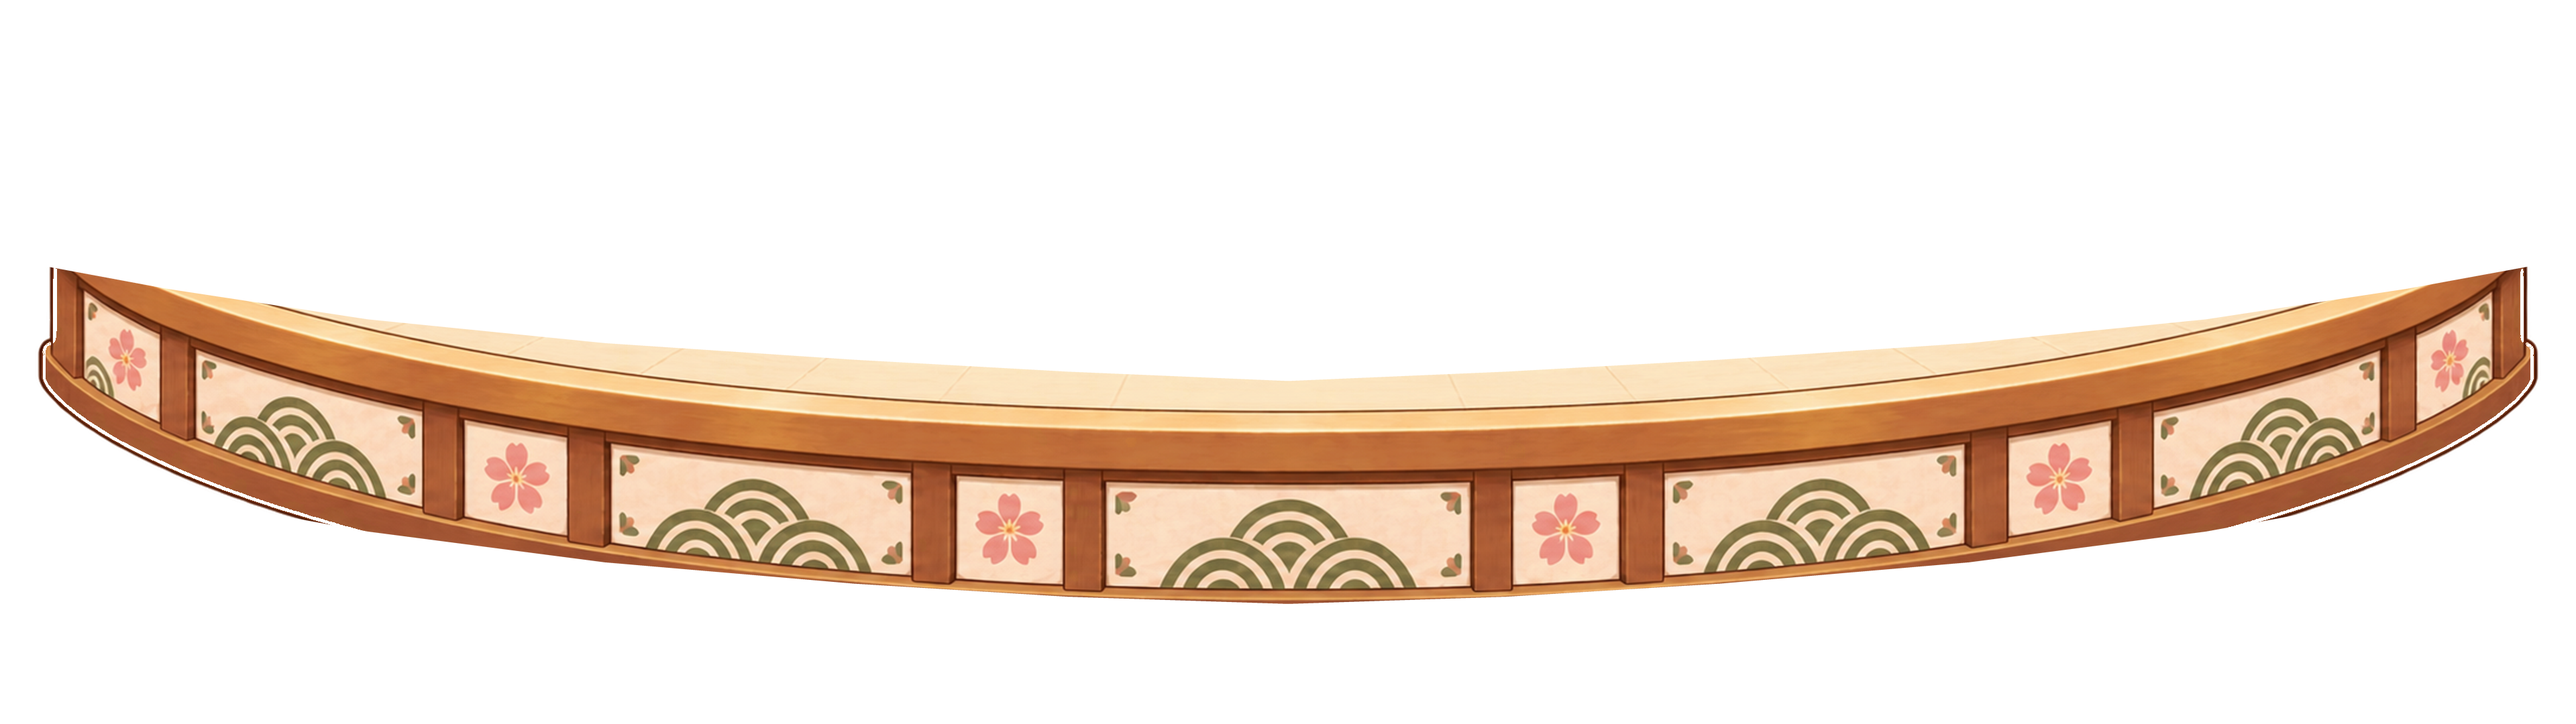
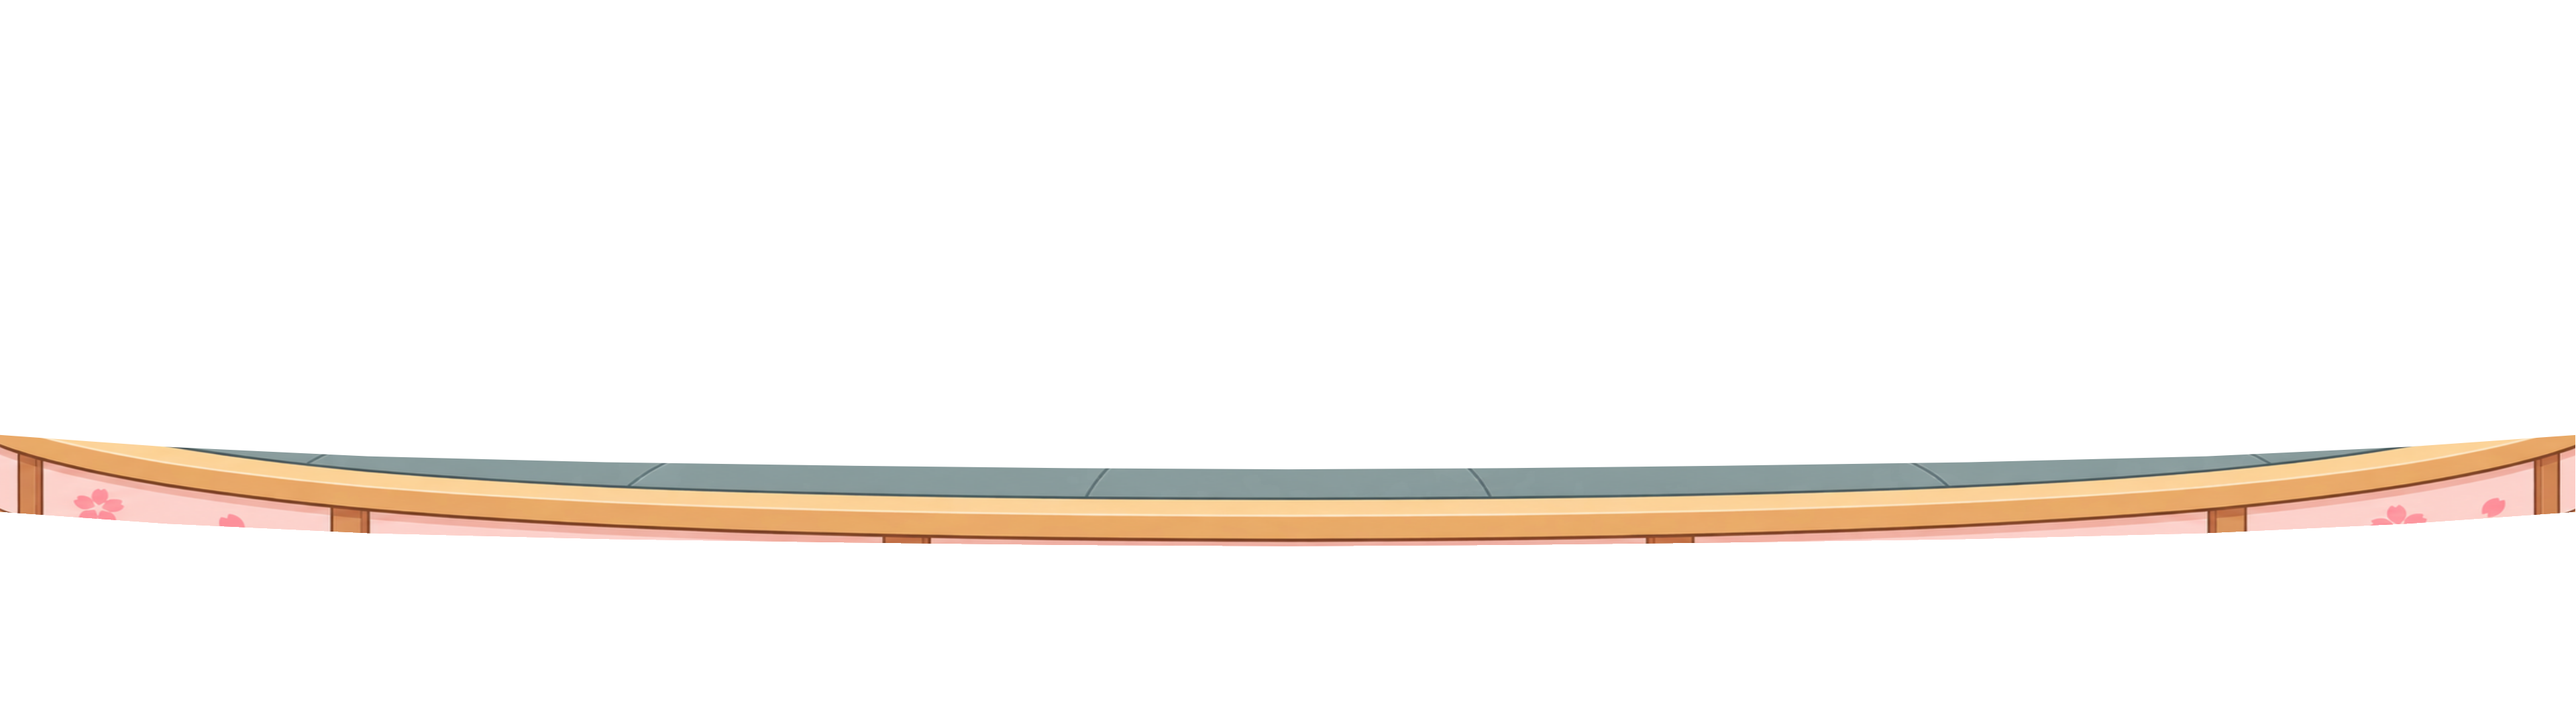
fix(themev3): redo background and conveyor stage composition

Changed region(s): [[0.0, 0.3667, 1.0, 0.8556]]

diff --git a/public/themev3-preview/index.html b/public/themev3-preview/index.html
@@ -3,16 +3,16 @@
   <head>
     <meta charset="UTF-8" />
     <meta name="viewport" content="width=device-width, initial-scale=1.0" />
-    <meta name="description" content="Theme V3 正式场景资产与弧形传送动线预览" />
-    <title>Theme V3 · 正式场景资产预览</title>
+    <meta name="description" content="Theme V3 Phase 03R 母背景、低矮弧形餐台与运动轨迹预览" />
+    <title>Theme V3 · Phase 03R 空间关系复核</title>
     <link rel="stylesheet" href="./preview.css" />
   </head>
   <body>
     <header class="prototype-header">
       <div class="heading">
-          <p class="eyebrow">THEME V3 · PHASE 03</p>
-        <h1>樱花猫咪寿司屋 · 正式资产预览</h1>
-        <p class="lede">正式插画与原始参考可切换；调试标记和运动测试盘可单独隐藏。</p>
+          <p class="eyebrow">THEME V3 · PHASE 03R</p>
+        <h1>樱花猫咪寿司屋 · 空间关系复核</h1>
+        <p class="lede">重做店内母背景与低矮弧形餐台；调试标记、测试盘和前缘可单独切换。</p>
       </div>
 
       <div class="controls" aria-label="原型控制">
@@ -85,7 +85,7 @@
             <div class="debug-zone debug-zone--brand debug-only" data-label="品牌区"></div>
             <div class="debug-zone debug-zone--progress debug-only" data-label="进度区 · 941px"></div>
             <div class="debug-zone debug-zone--assistant debug-only" data-label="AI 助手区"></div>
-            <div class="debug-zone debug-zone--stage debug-only" data-label="舞台 / 盘子点击热区活动层"></div>
+            <div class="debug-zone debug-zone--stage debug-only" data-label="餐台与盘子运动层 y=460–815"></div>
             <div class="debug-zone debug-zone--left-cart debug-only" data-label="左购物盘 DOM 实测 x=668–1495 · 4 槽 · 下单靠中"></div>
             <div class="debug-zone debug-zone--right-cart debug-only" data-label="右购物盘 DOM 实测 x=2345–3172 · 下单靠中 · 4 槽"></div>
             <div class="business-console debug-only" id="business-console" aria-label="真实底部组件结构调试对照">
@@ -129,22 +129,26 @@
         </div>
       </div>
 
-      <section class="analysis-panel" aria-label="阶段三资产说明">
+      <section class="analysis-panel" aria-label="Phase 03R 空间复核结论">
+        <article class="assessment">
+          <h2>空间结论</h2>
+          <p>大面积遮挡：已解决，中央窗景和店内结构恢复为主体。餐台透视失真：已解决，后沿、带面、前缘使用统一浅弧接触线；中部前缘约 115px，带面约 150px。台面仍会自然遮住窗下沿与柜体下部；正式餐盘加入后仍需做最终接触校验。</p>
+        </article>
         <article>
           <h2>正式母背景</h2>
-          <p>生成的全新室内插画按等比缩放、垂直居中裁切输出为 3840×1080；没有使用或横向拉伸 2048×768 参考图。母图不含角色、寿司盘、回转带或业务 UI。</p>
+          <p>新绘的全景室内插画输出为 3840×1080；没有使用或拉伸原始 2048×768 参考图。母图保留顶部安全区、中央樱花窗景、两侧货架与后厨工作台，不含角色、寿司盘、回转带或业务 UI。</p>
         </article>
         <article>
           <h2>场景分层</h2>
-          <p>完整合成按母背景、角色预留、餐台后沿、传送带面、动态盘、餐台前缘、底部 UI 预留顺序组成。单层查看及前缘显隐用于检查资产边界；后厨猫咪本阶段保持空位。</p>
+          <p>合成层序为母背景、角色预留、餐台后沿、传送带面、调试餐盘、餐台前缘、底部 UI 预留。单层查看及前缘显隐用于检查资产边界；猫咪工位保持空位，没有以几何占位形状伪装角色。</p>
         </article>
         <article>
           <h2>传送带接触线</h2>
-          <p>三份结构层由同一整套餐台母稿按轮廓分离，保持共同透视；动态盘位于带面与前缘之间。中心线已按新带面做首轮上移校准，仍需美术定稿后微调接触线。</p>
+          <p>餐台后沿、带面和前缘沿同一浅弧拆分：中心运动线约 y=624px，向两侧平缓收至 y=573px。中部带面约 150px、前挡板约 115px；三层共享曲线，动态盘底部由前缘遮挡。</p>
         </article>
         <article>
           <h2>底部空间</h2>
-          <p>保留 02R 三栏结构：左四槽购物盘加右侧下单；中央双菜单加 2×2 功能区；右侧下单加四槽购物盘。底部示意是调试覆盖，复杂点餐台尚未制作正式插画。</p>
+          <p>保留 02R 三栏结构：左四槽购物盘加右侧下单；中央双菜单加 2×2 功能区；右侧下单加四槽购物盘。示意仅为调试覆盖，不会作为正式点餐台素材。</p>
         </article>
       </section>
     </main>

diff --git a/public/themev3-preview/preview.css b/public/themev3-preview/preview.css
@@ -92,11 +92,11 @@ main { padding: 12px clamp(8px, 1.2vw, 18px) 28px; }
 
 .production-background, .stage-master, .stage-layer { position: absolute; inset: 0; width: 3840px; height: 1080px; user-select: none; pointer-events: none; }
 .production-background { z-index: 1; }
-.stage-master { display: none; z-index: 4; transform: scaleY(.84); transform-origin: center center; }
+.stage-master { display: none; z-index: 4; }
 .stage-layer--rear { z-index: 4; }
 .stage-layer--surface { z-index: 5; }
 .stage-layer--front { z-index: 24; }
-.stage-layer { transform: scaleY(.84); transform-origin: center center; }
+
 .reference-demo { display: none; position: absolute; z-index: 1; left: 480px; top: 0; width: 2880px; height: 1080px; user-select: none; pointer-events: none; }
 .backdrop-reference .reference-demo { display: block; }
 .backdrop-reference .production-background, .backdrop-reference .stage-master, .backdrop-reference .stage-layer { display: none; }
@@ -144,7 +144,7 @@ main { padding: 12px clamp(8px, 1.2vw, 18px) 28px; }
 .debug-zone--brand { left: 28px; top: 14px; width: 760px; height: 160px; }
 .debug-zone--progress { left: 1449px; top: 8px; width: 941px; height: 110px; border-color: #69ebaf; background: rgba(37, 175, 126, .13); }
 .debug-zone--assistant { left: 2500px; top: 14px; width: 1312px; height: 168px; border-color: #a1c1ff; }
-.debug-zone--stage { left: 18px; top: 196px; width: 3804px; height: 667px; border-color: rgba(255, 255, 255, .9); background: transparent; }
+.debug-zone--stage { left: 0; top: 460px; width: 3840px; height: 355px; border-color: rgba(255, 255, 255, .9); background: transparent; }
 .debug-zone--left-cart { left: 668px; top: 865px; width: 827px; height: 215px; border-color: #ffc36c; background: rgba(255, 185, 80, .08); }
 .debug-zone--right-cart { left: 2345px; top: 865px; width: 827px; height: 215px; border-color: #ffc36c; background: rgba(255, 185, 80, .08); }
 .business-console { position: absolute; inset: 0; z-index: 16; pointer-events: none; }
@@ -179,10 +179,10 @@ main { padding: 12px clamp(8px, 1.2vw, 18px) 28px; }
 .cat-station span, .cat-station small { position: absolute; left: 6px; right: 6px; padding: 5px 7px; color: #432b30; background: rgba(255, 250, 240, .9); font-size: 14px; line-height: 1.25; }
 .cat-station span { top: 47px; }
 .cat-station small { bottom: 6px; }
-.cat-station--prep { left: 902px; top: 205px; width: 307px; height: 305px; }
-.cat-station--plate { left: 1211px; top: 190px; width: 390px; height: 310px; }
-.cat-station--serve { left: 2413px; top: 190px; width: 340px; height: 310px; }
-.cat-station--cook { left: 2750px; top: 182px; width: 380px; height: 320px; }
+.cat-station--prep { left: 810px; top: 342px; width: 335px; height: 185px; }
+.cat-station--plate { left: 1150px; top: 342px; width: 420px; height: 185px; }
+.cat-station--serve { left: 2265px; top: 342px; width: 370px; height: 185px; }
+.cat-station--cook { left: 2635px; top: 342px; width: 390px; height: 185px; }
 
 .moving-plates { position: absolute; inset: 0; z-index: 20; pointer-events: none; }
 .debug-plate {

diff --git a/public/themev3-preview/preview.js b/public/themev3-preview/preview.js
@@ -4,24 +4,23 @@
   const CANVAS = { width: 3840, height: 1080 }
   const VIEW_WIDTH = { full: 3840, center: 1920 }
 
-  // Initial centerline fit follows the generated conveyor's visible belt surface.
-  // These canvas points are sampled from the shared rear/surface mask contours after the stage's 84% vertical scale.
+  // Centerline follows the new shared belt contact contour in logical 3840×1080 pixels.
   const controlPoints = [
-    { x: -340, y: 350 },
-    { x: 0, y: 381 },
-    { x: 248, y: 416 },
-    { x: 548, y: 448 },
-    { x: 902, y: 473 },
-    { x: 1273, y: 491 },
-    { x: 1591, y: 502 },
-    { x: 1920, y: 510 },
-    { x: 2245, y: 502 },
-    { x: 2564, y: 491 },
-    { x: 2935, y: 473 },
-    { x: 3288, y: 448 },
-    { x: 3589, y: 416 },
-    { x: 3840, y: 381 },
-    { x: 4170, y: 350 }
+    { x: -340, y: 550 },
+    { x: 0, y: 573 },
+    { x: 248, y: 590 },
+    { x: 548, y: 604 },
+    { x: 902, y: 613 },
+    { x: 1273, y: 618 },
+    { x: 1591, y: 621 },
+    { x: 1920, y: 624 },
+    { x: 2245, y: 621 },
+    { x: 2564, y: 618 },
+    { x: 2935, y: 613 },
+    { x: 3288, y: 604 },
+    { x: 3589, y: 590 },
+    { x: 3840, y: 573 },
+    { x: 4170, y: 550 }
   ]
   const DISH_COUNT = 6
   const PLATE_RATIO = 210 / 340
@@ -321,8 +320,8 @@
     viewMode = 'local'
     zoom = 1
     const targets = {
-      plate: { x: 1920, y: 577 },
-      curve: { x: 1920, y: 570 },
+      plate: { x: 1920, y: 624 },
+      curve: { x: 1920, y: 624 },
       console: { x: 1920, y: 970 }
     }
     const target = targets[button.dataset.focus]

diff --git a/docs/theme-sakura-cat-sushi-v3/PHASE_03R_STAGE_REDO_REPORT.md b/docs/theme-sakura-cat-sushi-v3/PHASE_03R_STAGE_REDO_REPORT.md
@@ -1,0 +1,81 @@
+# Theme V3 · Phase 03R Stage Redo Report
+
+## 结论
+
+Phase 03 的高墙式回转台已由一套重新绘制的低矮弧形餐台替换。新合成将店内、中央樱花窗景和后厨重新放回视觉主体；旧稿的大面积挡板与夸张端部不再出现在正式资源或预览中。
+
+本轮已完成母背景、餐台透明分层、合成预览和运动轨迹的空间重校。3840×1080 全景与 1920×1080 中央视图均已复核。`ART_ASSET_BLOCKED`：否。当前素材可进入主题开发；最终餐盘接触表现需待正式餐盘模板阶段再校验。
+
+## 1. 旧方案问题与重做原因
+
+Phase 03 的整套餐台视觉形成过高的弧形前墙，带面宽、前缘厚，左右端上翘明显。它盖住后厨柜台和窗景下部，把原本的寿司店内景压成一条被台体切开的背景。旧资源 CSS 又额外做了 `scaleY(.84)`，令实际几何与运动路径难以保持共同透视。
+
+这些问题来自整套台体的纵深和端部轮廓，而非单一坐标偏差，因此本轮废弃旧结构并重画母背景和餐台。旧失败图片没有复制到正式预览目录；旧版本仍可在 Git 历史中追溯。原始 demo 保留为独立参考切换项。用户提到的失败截图在本地文件与本轮消息附件中均未找到，复核依据是失败描述和仓库内 Phase 03 原资源。
+
+## 2. 新母背景设计
+
+新背景重建为 32:9 室内全景：顶部留有品牌与状态信息安全区，中央窗景展示樱花小镇、远山和塔楼，两侧保留货架、餐具、蒸笼、灯笼与室内结构，后方为连续操作台，下部保留木地板。画面不含固定寿司盘、猫咪、回转台、点餐按钮或文字 UI。
+
+生成源图为 2172×724；从底部裁去空余区域后按单一等比缩放，输出 3840×1080，没有拉伸 2048×768 demo。当前插画有清晰的暖色轮廓与柔和室内感，但仍带有较强的细节、高光和渐层，尚未完全达到目标中的低对比纯平涂；这属于下一轮美术风格统一项，不影响空间结构校验。
+
+## 3. 新餐台几何与透视
+
+餐台重画为内置于中下部的浅弧形设施，后沿、连续带面和前挡板共享同一条缓和曲线。前后弧线平行，左右端向画面边缘浅收，端部未做高翘坡道或半管造型。活动带面为空，不含固定商品、餐盘或商品名称。
+
+- 逻辑画布：3840×1080。
+- 中部带面可见深度：约 150px。
+- 中部前挡板可见高度：约 115px。
+- 中部后沿至前挡板底部总高度：约 305px。
+- 运动中心线：中心约 y=624px，两侧约 y=573px，沿统一浅弧平滑过渡。
+- 合成后餐台最下缘约 y=815px；底部 UI 预留从 y=865px 开始，留有约 50px 间隙。
+
+动态餐盘置于带面之后、前缘之前；前缘可遮住餐盘底部。路径保留左→右默认运动和 340px 默认盘宽，没有修改业务数据或接口。运动曲线是基于新带面的空间校准，最终接触阴影与真实商品盘仍待正式餐盘模板确定。
+
+## 4. 资产清单与实际图像信息
+
+以下 PNG 均为 3840×1080：
+
+| 资源 | 格式与颜色/透明度 | 用途 |
+| --- | --- | --- |
+| `public/images/ui/sakura-cat-sushi/background/sakura-shop-background.png` | PNG，RGB，不含 alpha | 正式母背景 |
+| `public/images/ui/sakura-cat-sushi/stage/conveyor-stage.png` | PNG，RGBA，含透明区域 | 餐台完整母稿/合成检查层 |
+| `public/images/ui/sakura-cat-sushi/stage/conveyor-rear.png` | PNG，RGBA，含透明区域 | 餐台后沿 |
+| `public/images/ui/sakura-cat-sushi/stage/conveyor-surface.png` | PNG，RGBA，含透明区域 | 动态传送带面 |
+| `public/images/ui/sakura-cat-sushi/stage/conveyor-front.png` | PNG，RGBA，含透明区域 | 餐台前缘遮挡层 |
+
+三份结构层从同一餐台图像按照共享接触线拆分；透明边缘经过像素清理，未发现白色抠图底。原始参考 `public/themev3-preview/reference-demo.png` 为 2048×768，仅作临时参考，不属于正式资产，也没有作为母背景拉伸使用。
+
+## 5. 场景图层关系
+
+1. 母背景。
+2. 后厨角色预留层（本阶段为空位）。
+3. 餐台后沿。
+4. 传送带面。
+5. 动态餐盘层（预览测试盘仅在调试打开时显示）。
+6. 餐台前缘遮挡层。
+7. 底部点餐台与左右购物盘预留区。
+
+预览可以独立查看母背景、完整餐台母稿、后沿、带面和前缘，也可关闭前缘检查接触边界。旧失败餐台不保留在公开资源目录，因此没有旧/新错误方案切换项；原始 demo 与正式背景仍可切换。
+
+## 6. 新旧效果与验收检查
+
+**遮挡：明显改善。** 旧稿的高挡板和厚重端部已消除；新稿让店内结构、樱花窗景和后厨储物再次可见。中央视图中餐台仍是明确的中景交互主体，会遮住窗下沿和后厨柜体的下部，但不再盖住大部分窗景或把全场切成两段。
+
+**透视：已统一到合理浅弧。** 后沿、带面、前缘与运动中心线使用相同轮廓，桌面深度和前缘厚度受控。当前浅弧的左右两端仍比中心略高，这是远端回转路径进入侧边的透视表现；没有继续向上卷成墙体或滑道。正式餐盘与猫咪层加入后仍需做接触和遮挡复查。
+
+**3840 全景：通过。** 母版保持 3840×1080；顶部信息安全带清晰，中央窗景保持为重要锚点，左右店内空间完整可辨，餐台与 y=865px 起的底部预留区未重叠。
+
+**1920 中央视图：通过。** 以画布中央 x=960–2880 的 1920×1080 视图检查，窗景主体仍连续可见；餐台处在中下部，和底部 UI 预留之间有呼吸间隔。
+
+## 7. 预览功能
+
+`public/themev3-preview/index.html` 提供正式背景/原始参考切换、背景单独查看、餐台母稿与三结构层单独查看、前缘显隐、3840 全景、1920 中央视图、100% 局部检查、运动方向/速度/暂停控制，以及可显隐的边界标记、猫咪工位、运动路径与调试盘。底部调试覆盖延续 02R 三栏布局：左四槽与右侧下单、中间双菜单加 2×2 功能区、右侧下单与四槽。
+
+## 8. 尚未解决与下一阶段
+
+- 新图比 Phase 03 旧版更适合当前布局，但背景与餐台仍比目标纯平涂风格更细致、更有高光；后续美术统一可降低细节密度与局部对比。
+- 四只猫咪角色和正式餐盘模板尚未制作。站位目前仅有可选的调试标记，未烘焙占位角色。
+- 猫咪与正式餐盘加入后，需要复核脚部/盘底接触、前缘遮挡和端部进出场。
+- 底部点餐台仍是空间预留和调试结构，不是正式插画资产。
+
+下一阶段可以开始猫咪角色资源制作，并以本轮母背景和浅弧餐台作为空间锚点；完成角色合成后应再校准站位和遮挡。

diff --git a/public/images/ui/sakura-cat-sushi/README.md b/public/images/ui/sakura-cat-sushi/README.md
@@ -2,13 +2,13 @@
 
 Theme V3「樱花猫咪回转寿司屋」视觉资产。场景母版统一为 3840×1080。
 
-Phase 03 已实际生成：
+Phase 03R 已替换并校准：
 
-- `background/sakura-shop-background.png`：完整无 UI 的店内母背景。
-- `stage/conveyor-stage.png`：统一透视的整套餐台绘制母稿。
-- `stage/conveyor-rear.png`、`stage/conveyor-surface.png`、`stage/conveyor-front.png`：从同一母稿按轮廓拆出的三张透明分层图。
+- `background/sakura-shop-background.png`：3840×1080、无 UI 的店内母背景。
+- `stage/conveyor-stage.png`：3840×1080、含 alpha 的浅弧餐台合成母稿。
+- `stage/conveyor-rear.png`、`stage/conveyor-surface.png`、`stage/conveyor-front.png`：3840×1080、含 alpha 的后沿、带面与前缘层，使用共同接触线。
 
-这些图片是本阶段主题插画素材；商品盘、猫咪、正式点餐台和商品内容仍未制作。
+餐台在中部为约 150px 带面、约 115px 前缘、约 305px 总高度。Phase 03 的高挡板失败方案已替换；空间复核细节见 `docs/theme-sakura-cat-sushi-v3/PHASE_03R_STAGE_REDO_REPORT.md`。商品盘、猫咪、正式点餐台和商品内容仍未制作。
 
 - `background/`：完整店内与窗外樱花小镇母背景。
 - `stage/`：弧形回转台、轨道与遮挡前后景。
